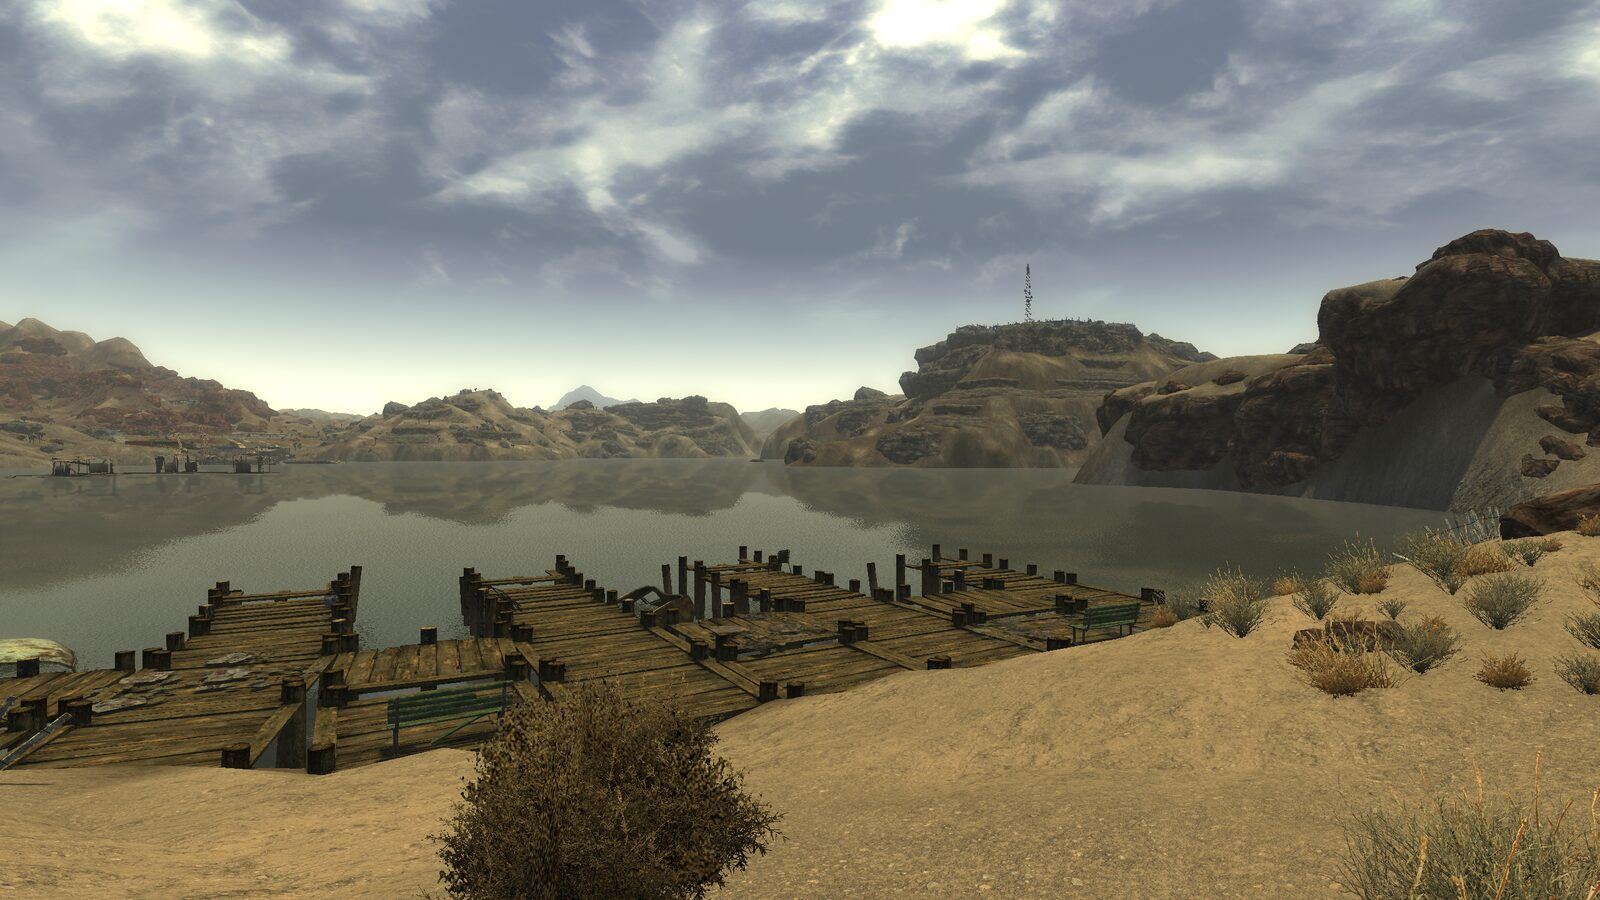
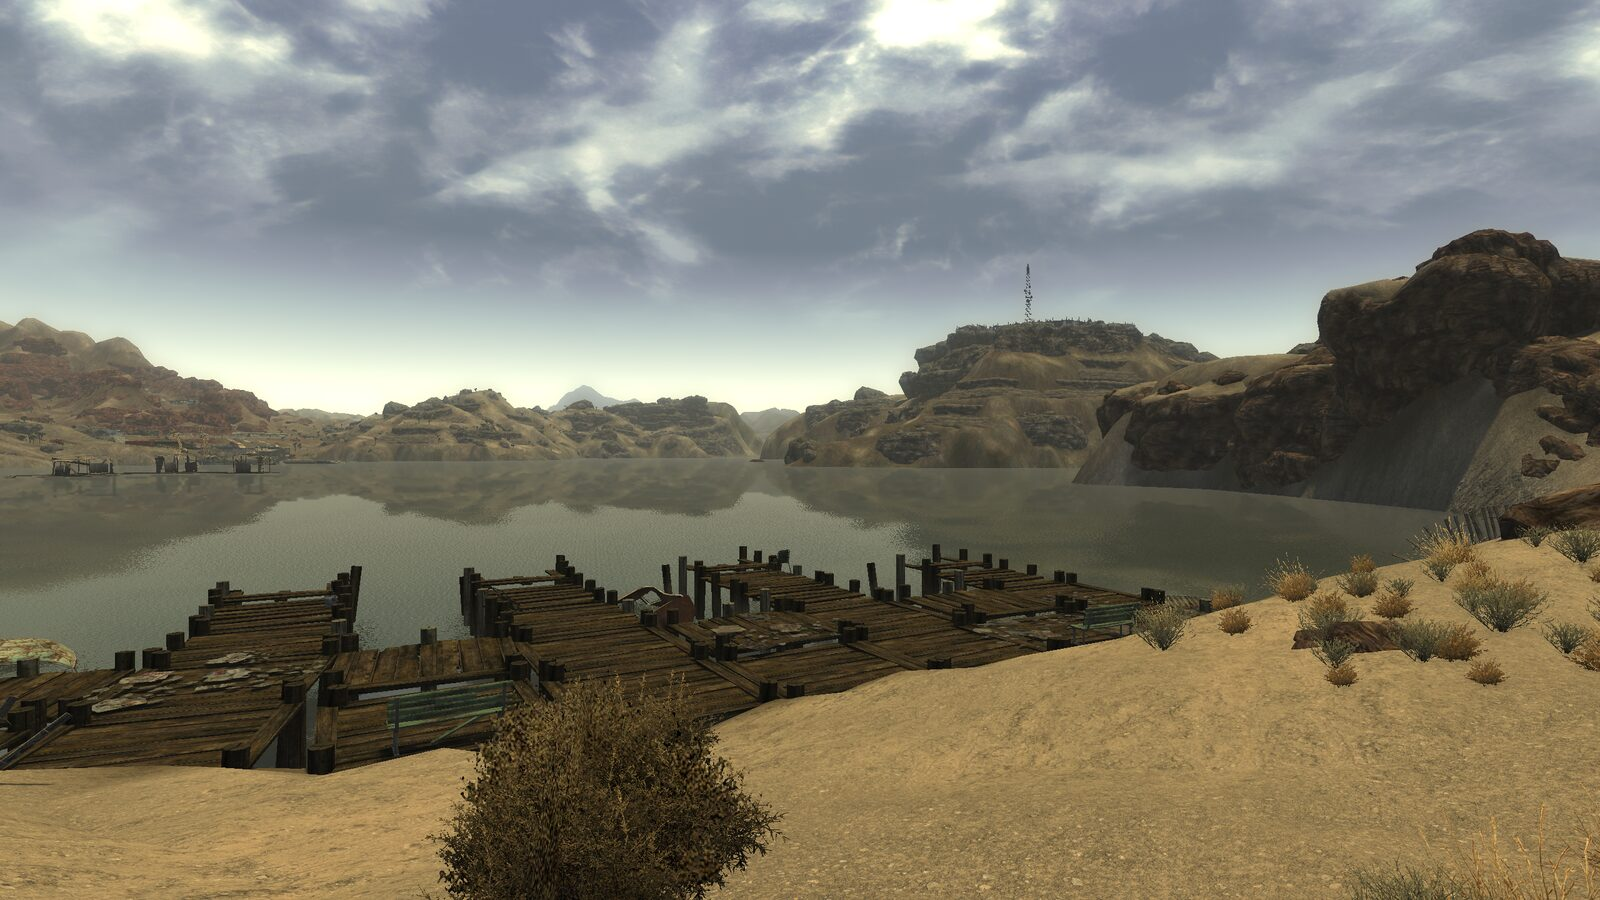
docs: re-shoot Beautiful comparisons with the archive fix (#711)
The Beautiful pictures are taken again with the staged Fallout.ini that lists the invalidation archive, so loose Mod textures show. The eight Mojave pairs and the four README composites are replaced, and the Compare page gets the Capital Wasteland views (Rivet City, Tenpenny Tower, Megaton) as Tale of Two Wastelands alone against Beautiful.

Changed region(s): [[0.0, 0.56, 1.0, 0.8711], [0.8438, 0.8711, 1.0, 1.0]]

diff --git a/site/compare.html b/site/compare.html
@@ -20,6 +20,7 @@
 <div class="prose">
 <p><strong>Left: the vanilla game.</strong> No mods, the game's own renderer (the <code>original</code> preset), official files only.</p>
 <p><strong>Right: Beautiful.</strong> The bundled Beautiful profile (<code>lists/beautiful.toml</code>), with all of raul's engine features (the <code>modern</code> preset: ambient occlusion, sun shadows, reflections, fill light) and a generated far view. Engine nv-rs e4255c837.</p>
+<p>The Capital Wasteland views come from Tale of Two Wastelands. Left there is Tale of Two Wastelands alone, with no other mods and the <code>original</code> preset; right is Beautiful on top of it. Tale of Two Wastelands gives the Capital its own sepia sky, in both pictures.</p>
 <p class="muted small">Drag the handle, or focus a slider and use the arrow keys (Home and End jump to the ends). Screenshots only; no game files are published.</p>
 </div>
 <nav class="jump" aria-label="Views">{{jump}}</nav>
